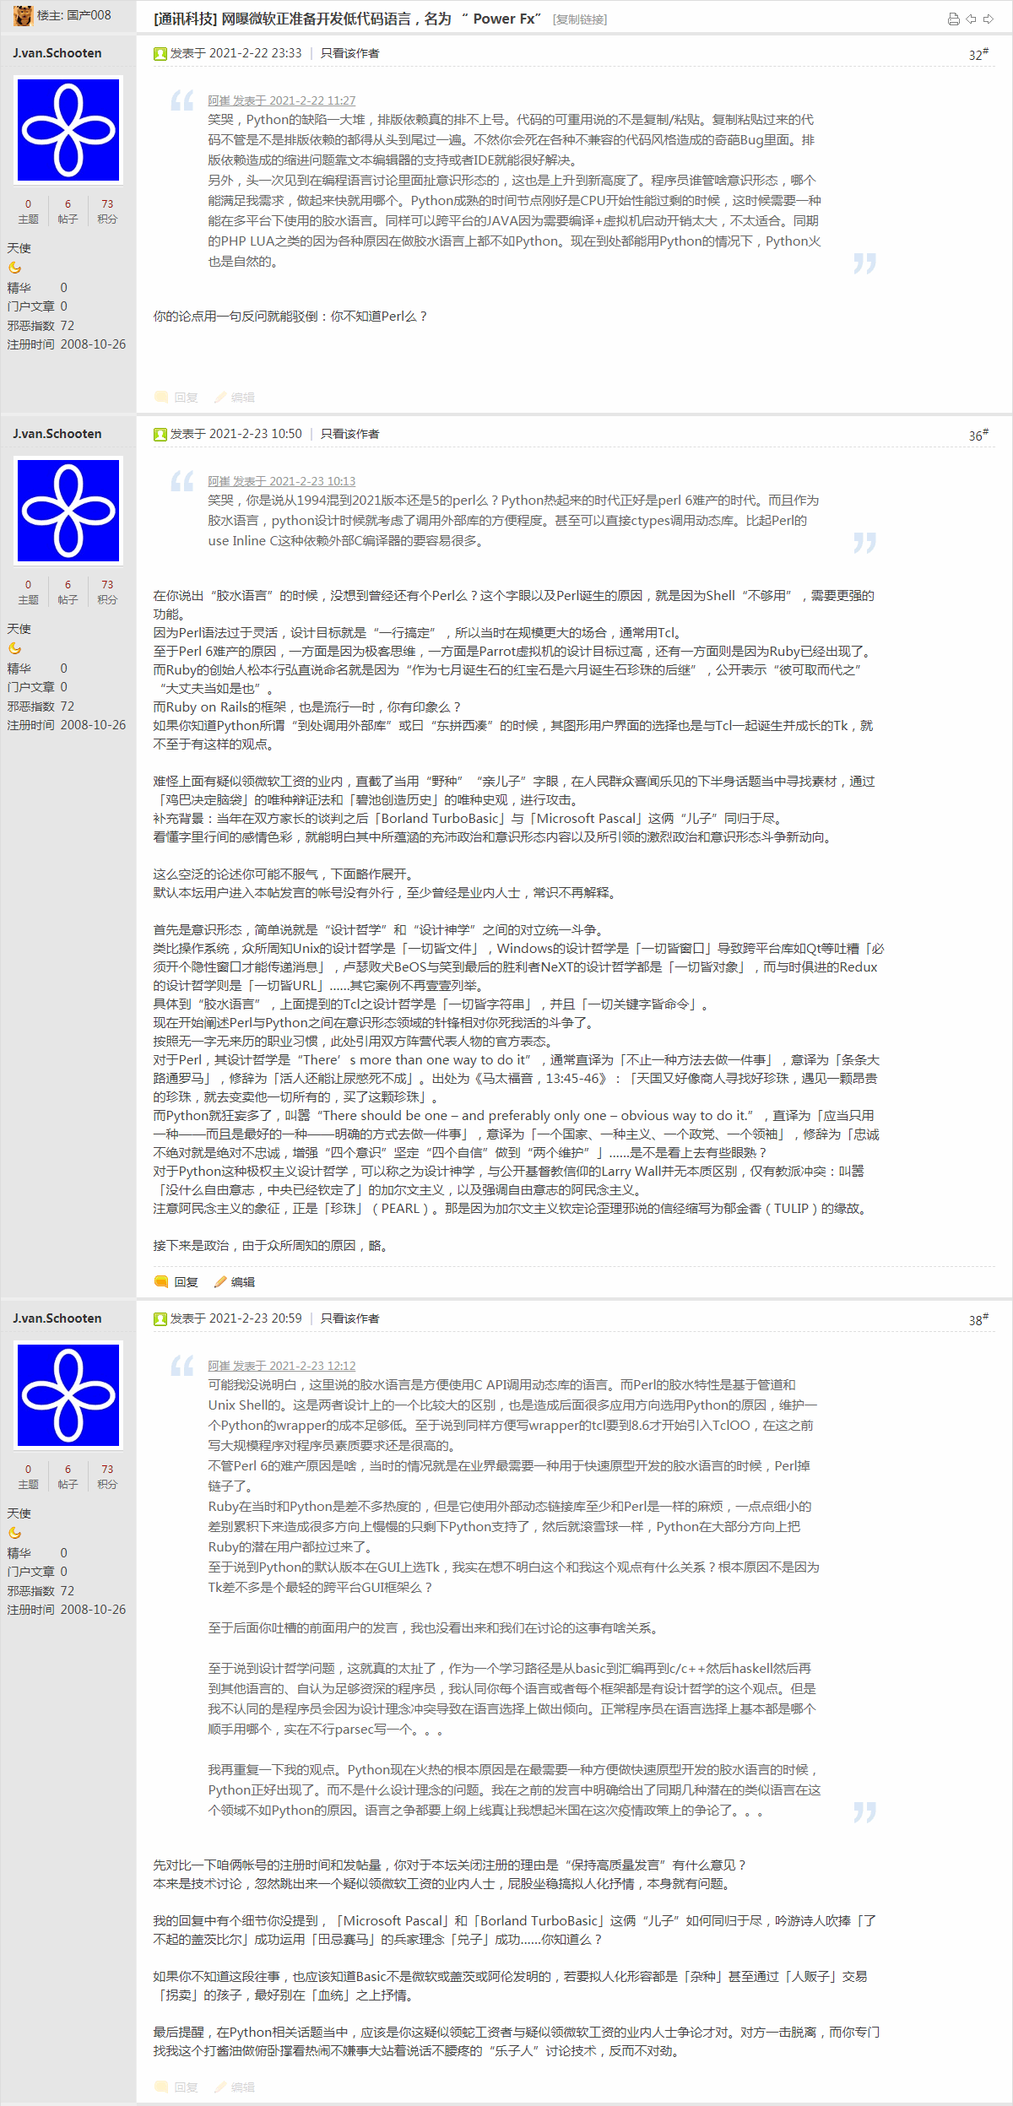
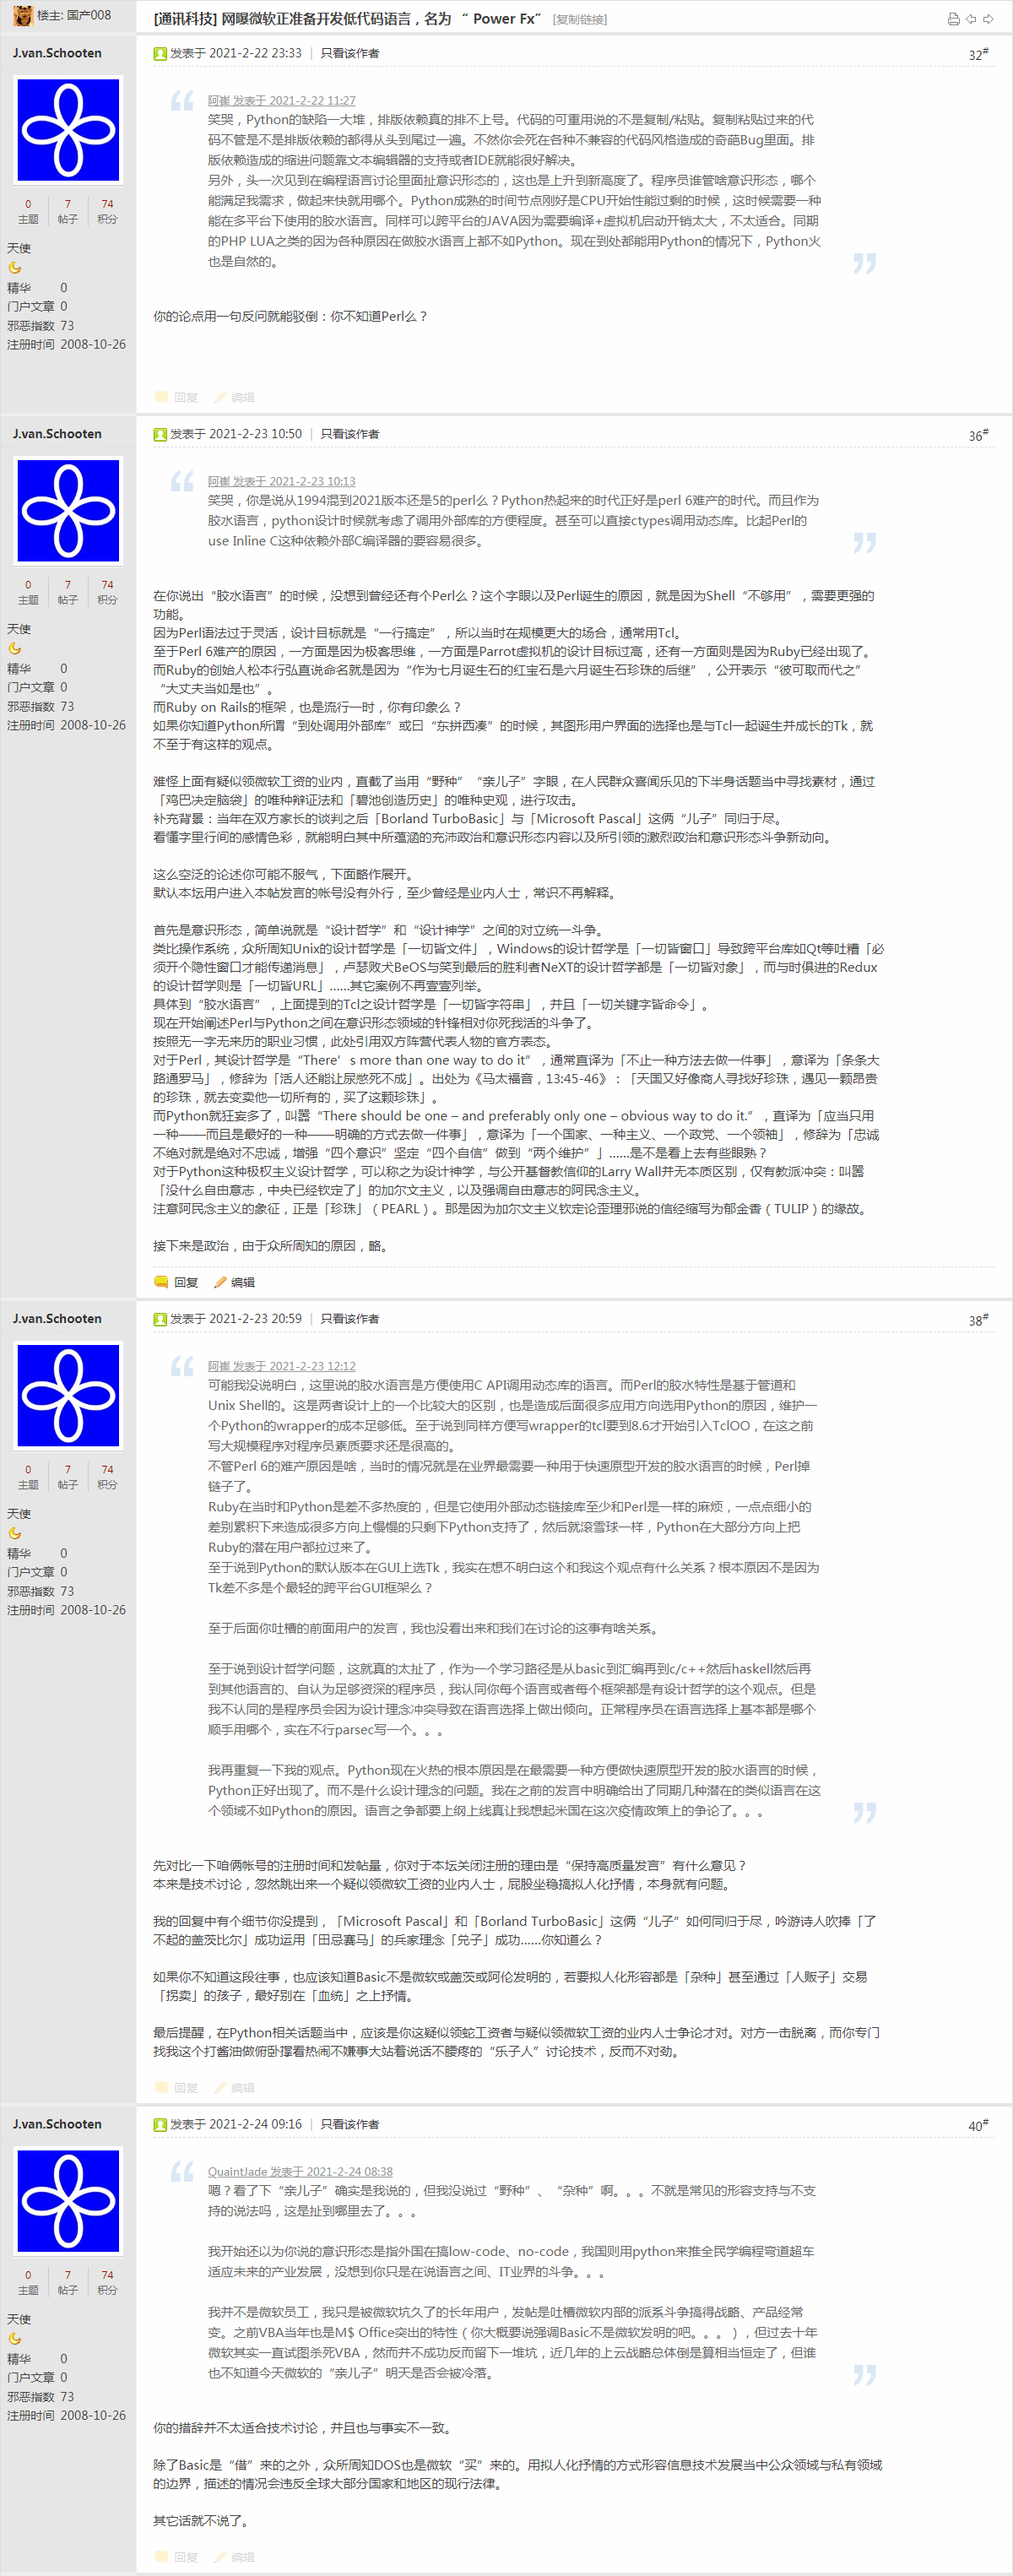
补充内容
Former-commit-id: a44ad4ebc56baf6b6fa2674283e7f0cbeb185ab4

diff --git a/at_douban/diary/20210223-002.html b/at_douban/diary/20210223-002.html
@@ -96,6 +96,18 @@
             <p>如果你不知道这段往事，也应该知道Basic不是微软或盖茨或阿伦发明的，若要拟人化形容都是「杂种」甚至通过「人贩子」交易「拐卖」的孩子，最好别在「血统」之上抒情。</p>
             <p>最后提醒，在Python相关话题当中，应该是你这疑似领蛇工资者与疑似领微软工资的业内人士争论才对。对方一击脱离，而你专门找我这个打酱油做俯卧撑看热闹不嫌事大站着说话不腰疼的“乐子人”讨论技术，反而不对劲。</p>
         </article>
+        <article class="comment">
+            <header class="myself"><abbr class="myself">范狂夫</abbr><time>2021-2-24 09:16</time></header>
+            <article class="comment">
+                <header><abbr class="uid">QuaintJade</abbr><time>2021-2-24 08:38</time></header>
+                <p>嗯？看了下“亲儿子”确实是我说的，但我没说过“野种”、“杂种”啊。。。不就是常见的形容支持与不支持的说法吗，这是扯到哪里去了。。。</p>
+                <p>我开始还以为你说的意识形态是指外国在搞low-code、no-code，我国则用python来推全民学编程弯道超车适应未来的产业发展，没想到你只是在说语言之间、IT业界的斗争。。。</p>
+                <p>我并不是微软员工，我只是被微软坑久了的长年用户，发帖是吐槽微软内部的派系斗争搞得战略、产品经常变。之前VBA当年也是M$ Office突出的特性（你大概要说强调Basic不是微软发明的吧。。。），但过去十年微软其实一直试图杀死VBA，然而并不成功反而留下一堆坑，近几年的上云战略总体倒是算相当恒定了，但谁也不知道今天微软的“亲儿子”明天是否会被冷落。</p>
+            </article>
+            <p>你的措辞并不太适合技术讨论，并且也与事实不一致。</p>
+            <p>除了Basic是“借”来的之外，众所周知DOS也是微软“买”来的。用拟人化抒情的方式形容信息技术发展当中公众领域与私有领域的边界，描述的情况会违反全球大部分国家和地区的现行法律。</p>
+            <p>其它话就不说了。</p>
+        </article>
         <p>至于感想，早在<span class="onum">2004</span>年就有了：“你小子可别是打算拿两份工资吧？”（《电子生涯》第贰拾叁章〈人才〉）</p>
     </main>
     <div class="signature">
